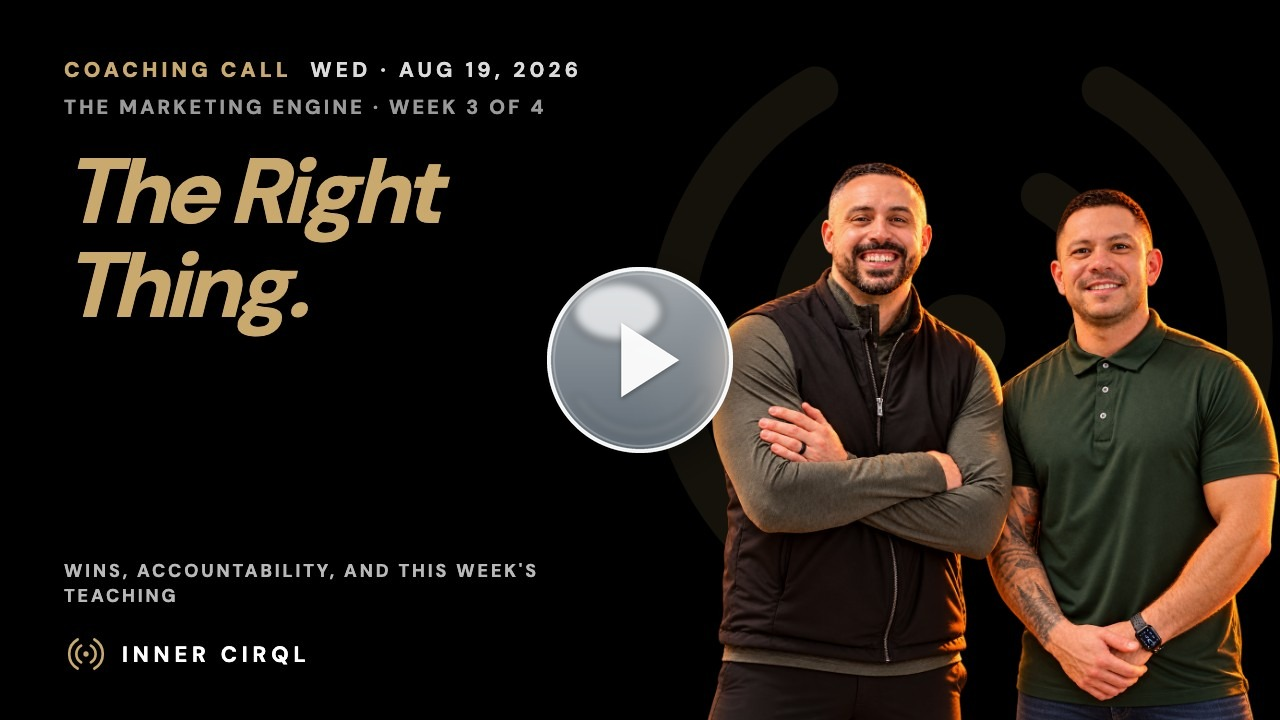
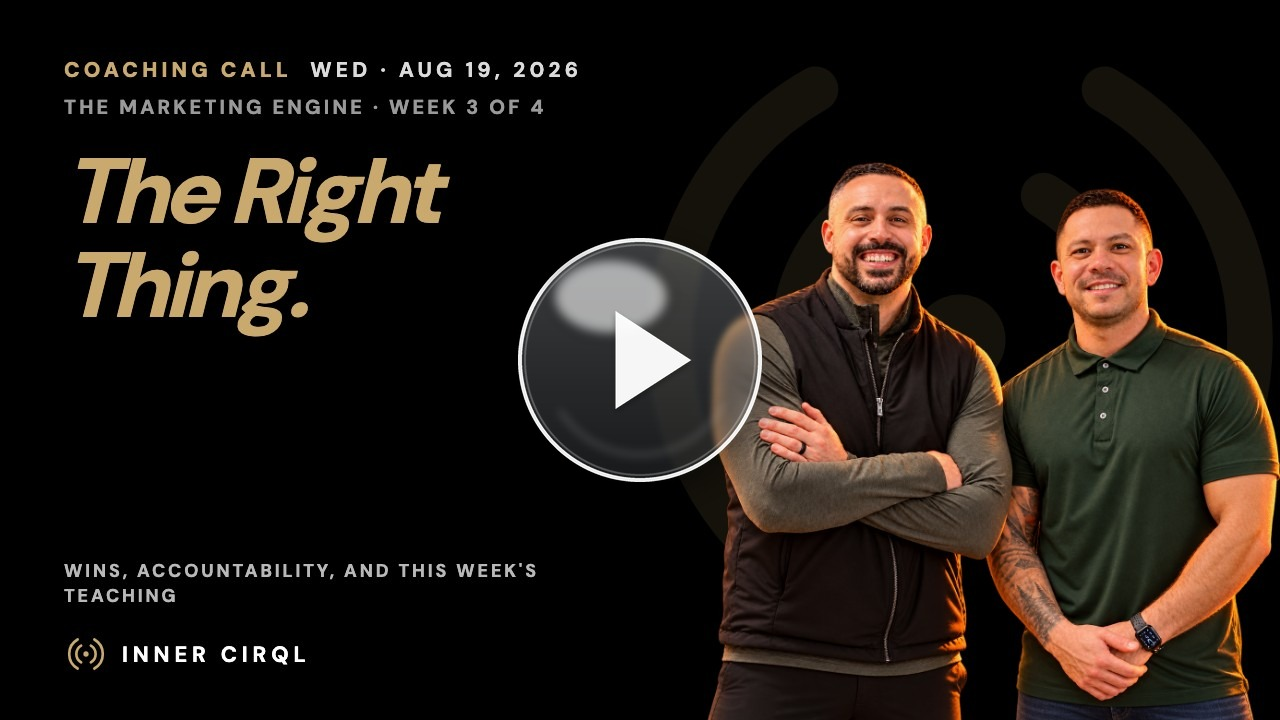
Training: retitle Aug 19 coaching call (The Marketing Engine · Week 3 · The Right Thing.) + thumbnail

Changed region(s): [[0.4062, 0.3056, 0.5938, 0.6722]]

diff --git a/training/index.html b/training/index.html
@@ -94,6 +94,26 @@ window.LIBRARY = {
   ],
   "items": [
     {
+      "id": "v-2026-08-19",
+      "date": "2026-08-19",
+      "dateLabel": "August 19, 2026",
+      "series": "engine",
+      "week": 3,
+      "name": "The Right Thing.",
+      "title": "The Marketing Engine · Week 3 · The Right Thing.",
+      "headline": [
+        "The Right",
+        "Thing."
+      ],
+      "sub": "The Marketing Engine · Week 3 of 4",
+      "desc": "The Marketing Engine, Week 3: The Right Thing: the right message books the meeting. Stop qualifying, start booking. Wins, accountability, and the teaching segment, edited replay.",
+      "href": "https://coach.theinnercirql.com/2026-08-19/",
+      "pdf": null,
+      "slides": null,
+      "embed": "https://www.youtube.com/embed/-776aqFazVE?rel=0&modestbranding=1",
+      "thumb": "/assets/thumbs/aug-19-call.jpg?v=29920148"
+    },
+    {
       "id": "v-2026-08-12",
       "date": "2026-08-12",
       "dateLabel": "August 12, 2026",
@@ -532,26 +552,6 @@ window.LIBRARY = {
       "slides": null,
       "embed": "https://www.youtube.com/embed/5wY_vSqi8dg?rel=0&modestbranding=1",
       "thumb": "/assets/thumbs/aug-26-call.jpg?v=29920127"
-    },
-    {
-      "id": "v-2026-08-19",
-      "date": "2026-08-19",
-      "dateLabel": "August 19, 2026",
-      "series": "engine",
-      "week": 3,
-      "name": "The Right Thing.",
-      "title": "The Marketing Engine · Week 3 · The Right Thing.",
-      "headline": [
-        "The Right",
-        "Thing."
-      ],
-      "sub": "The Marketing Engine · Week 3 of 4",
-      "desc": "The Marketing Engine, Week 3: The Right Thing: the right message books the meeting. Stop qualifying, start booking. Wins, accountability, and the teaching segment, edited replay.",
-      "href": "https://coach.theinnercirql.com/2026-08-19/",
-      "pdf": null,
-      "slides": null,
-      "embed": "https://www.youtube.com/embed/-776aqFazVE?rel=0&modestbranding=1",
-      "thumb": "/assets/thumbs/aug-19-call.jpg?v=29920126"
     },
     {
       "id": "t-become-a-listing-magnet",
